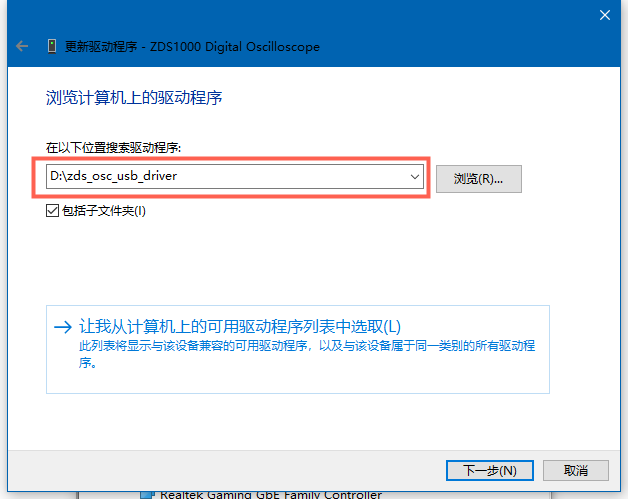
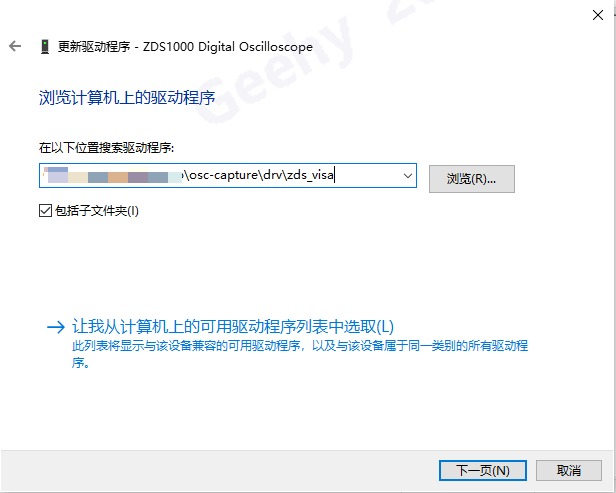
修改部分说明内容

Changed region(s): [[0.0, 0.0, 1.0, 1.0], [0.0617, 0.6085, 0.8945, 0.7911], [0.0617, 0.1826, 0.3701, 0.213]]

diff --git a/readme.md b/readme.md
@@ -1,10 +1,12 @@
 示波器截图助手
 
 # 概述
-这个软件运行在 PC 上，通过 USB 线缆连接 PC 与 示波器后，可以操作示波器截图，并拉取回 PC。
+
+程序运行在 PC 上，通过 USB 线缆连接 PC 与 示波器后，可以控制示波器截图，并拉取回 PC。
 
 # 使用简介
-程序界面请参考：
+
+程序界面：
 
 ![UI](./doc/home.png)
 
@@ -21,25 +23,15 @@
 
 # 安装
 
-1. 如果之前没有使用过任何其类似软件，请参考 **通用安装说明.pdf** 先安装 Python 解释器。
-2. 按本文后续说明安装必备组件。
-3. 按《通用安装说明》 2.3 节及后续说明操作
+程序自身不需要安装，解压缩后直接使用。因为设计 USB 通信，需要安装一些依赖。
 
-## 安装必备组件
-组件被打包为 osc_capture_comp.zip。除非特别说明，否则组件包只需要在第一次使用前进行安装。获取并解压文件到合适的位置。
+## 安装驱动
 
-## Package
-双击解压后的 install_packages.bat 文件，等待安装完成。
+### 广州致远 ZLG 示波器
 
-## VISA 程序包
-采用 Rohde & Schwarz 公司的 VISA 驱动包。安装程序名称：RS_VISA_Setup_Win_7_2_2.exe，双击可执行文件进行安装，安装过程全部采用默认设置即可。安装完成后需要**重启 PC**，或者在整个安装完成后重启亦可。
+如果是广州致远 ZDS 系列示波器，可使用程序压缩包里的 **drv\\zds_visa** 目录内提供的驱动程序。操作步骤：
 
-## 周立功 ZDS 示波器驱动
-周立功 ZDS 系列示波器驱动程序不是标准的 VISA 驱动，需要单独安装。请严格按以下步骤安装：
-
-1. 解压缩 osc_capture_comp.zip 文件，在解压缩后找到 ZDS_USB_DRV 文件夹。
-
-2. 示波器打开电源，并用 USB 线缆连接到 PC
+1. 示波器打开电源，并用 USB 线缆连接到 PC 。
 
 3. 打开设备管理器，大概能看到一个带有黄色三角形符号的驱动的设备：
 
@@ -49,7 +41,7 @@
 
 ![install_driver](./doc/install_driver.png)
 
-5. 在“更新驱动程序”界面，点击【浏览】按钮，选择第一步解压得到的文件夹。我的 PC 上，这个地址是 D:\zds_osc_usb_driver 请确保实际 PC 上的路径。选择好路径后，点击【下一步】：
+5. 在“更新驱动程序”界面，点击【浏览】按钮，drv\\zds_visa 文件夹，点击【下一步】：
 
 ![select_driver](./doc/select_driver.png)
 
@@ -77,8 +69,16 @@
 
 3. 驱动卸载完成后，“卸载设备”窗口消失，回到设备管理器，点击菜单栏【操作】→【扫描检测硬件改动】，应该就能看到“带有黄色三角形符号的驱动的设备”说明旧驱动卸载成功，请接着安装步骤4继续执行。如果在【扫描检测硬件改动】后，仍然还能看到“ZDS1000 Digital Oscilloscope” 的设备，请再次重复卸载步骤直到看到“带有黄色三角形符号的驱动的设备”。
 
------
+### 其他型号的示波器
 
-至此，必备的组件安装完成，请重启 PC 后，按《通用安装说明》 2.3 节及后续说明操作。
+对于其他型号的示波器需要 VISA 的支持。经过测试 NI 提供的 VISA 库兼容性最好，推荐使用。
+
+先从 NI 官网下载 VISA。打开这个网址 https://www.ni.com/zh-cn/support/downloads/drivers/download.ni-visa.html ，选择“受支持的操作系统”和“版本”之后就可以点击下载。如果网络受限，可以点击“离线安装”下载 iso 文件使用。以下的说明内容是使用离线的 iso 文件，在线安装亦可参考。
+
+如果 PC 的操作系统是 win10 以上的，双击 iso 文件就可以“挂载”这个文件，并会在“我的电脑”出现一个光驱的驱动器，打开这个驱动器。如果双击 iso 文件是打开了压缩软件的界面，也可以先解压缩到一个文件夹里。
+
+打开 install.exe 文件，参考下面图片中标注的点安装。安装完成后**需要重启系统**。
+
+
 
 -----
